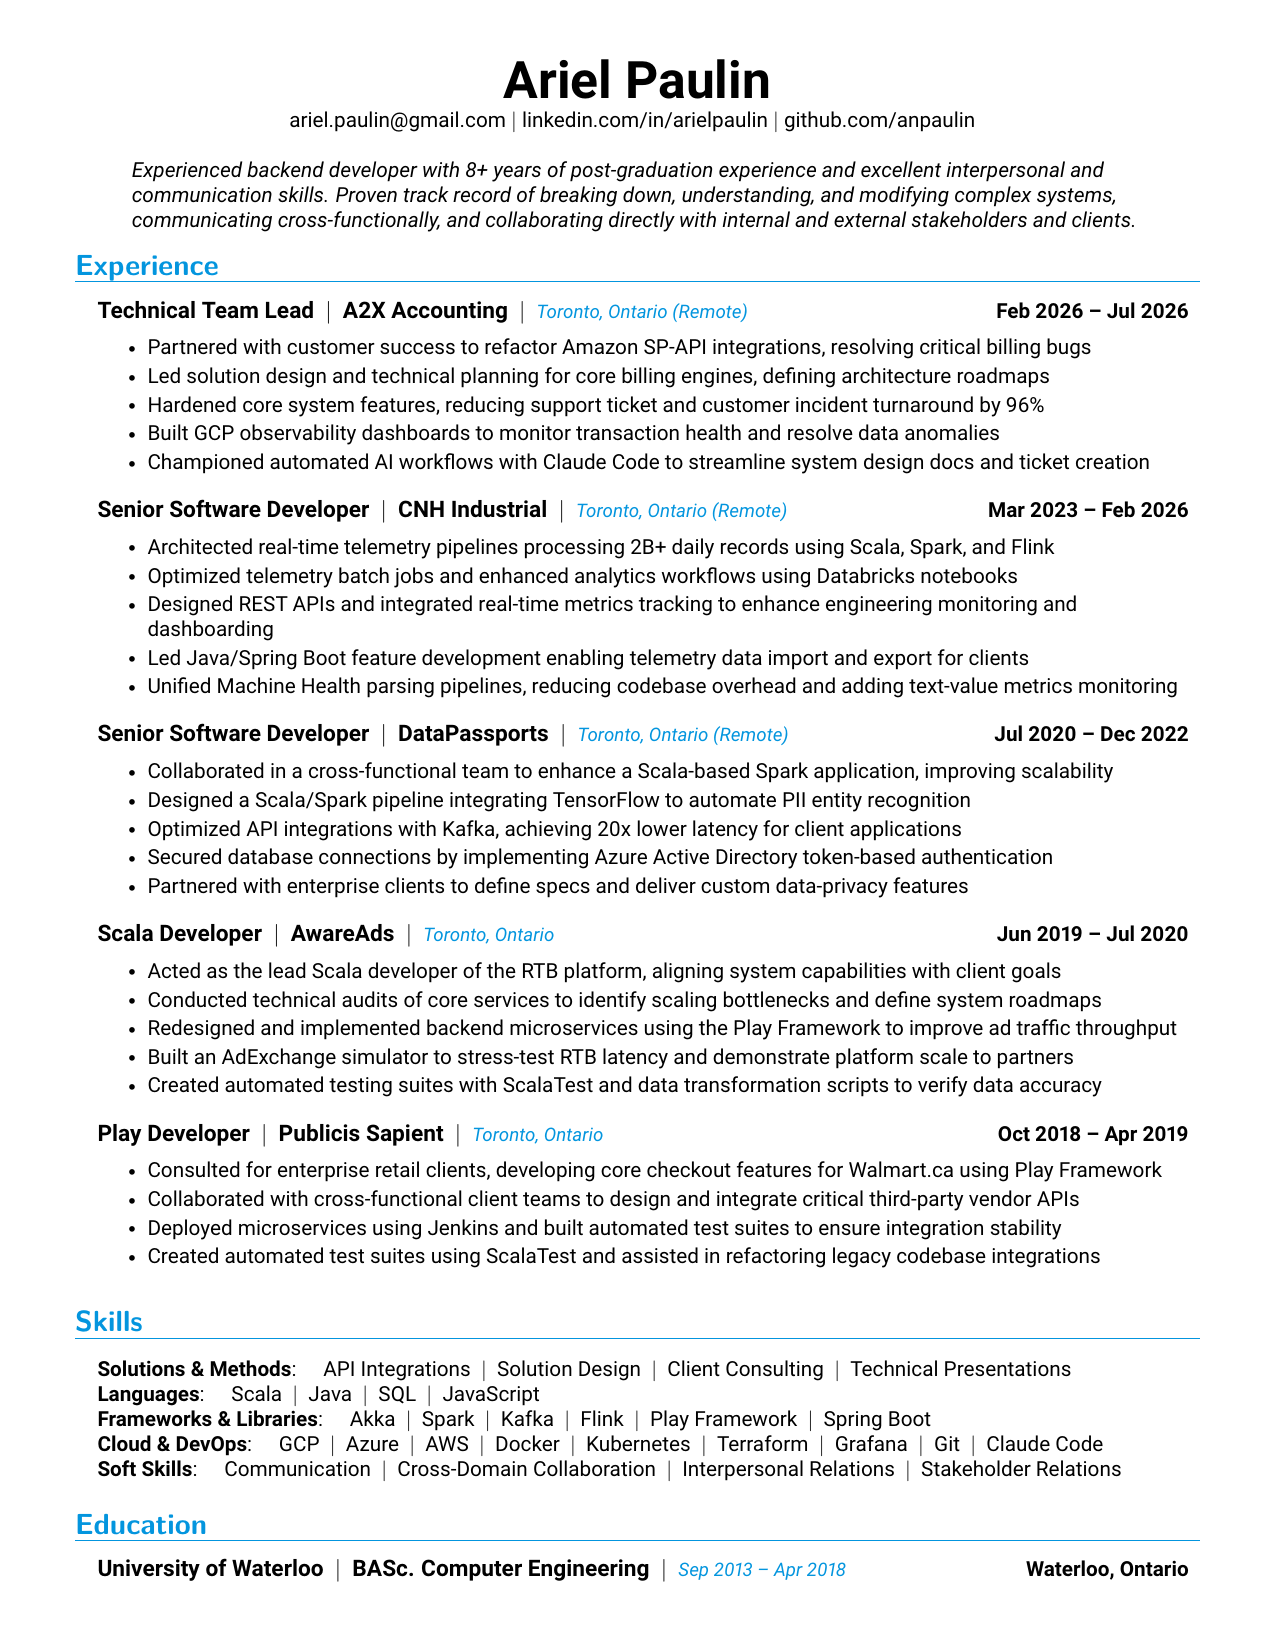
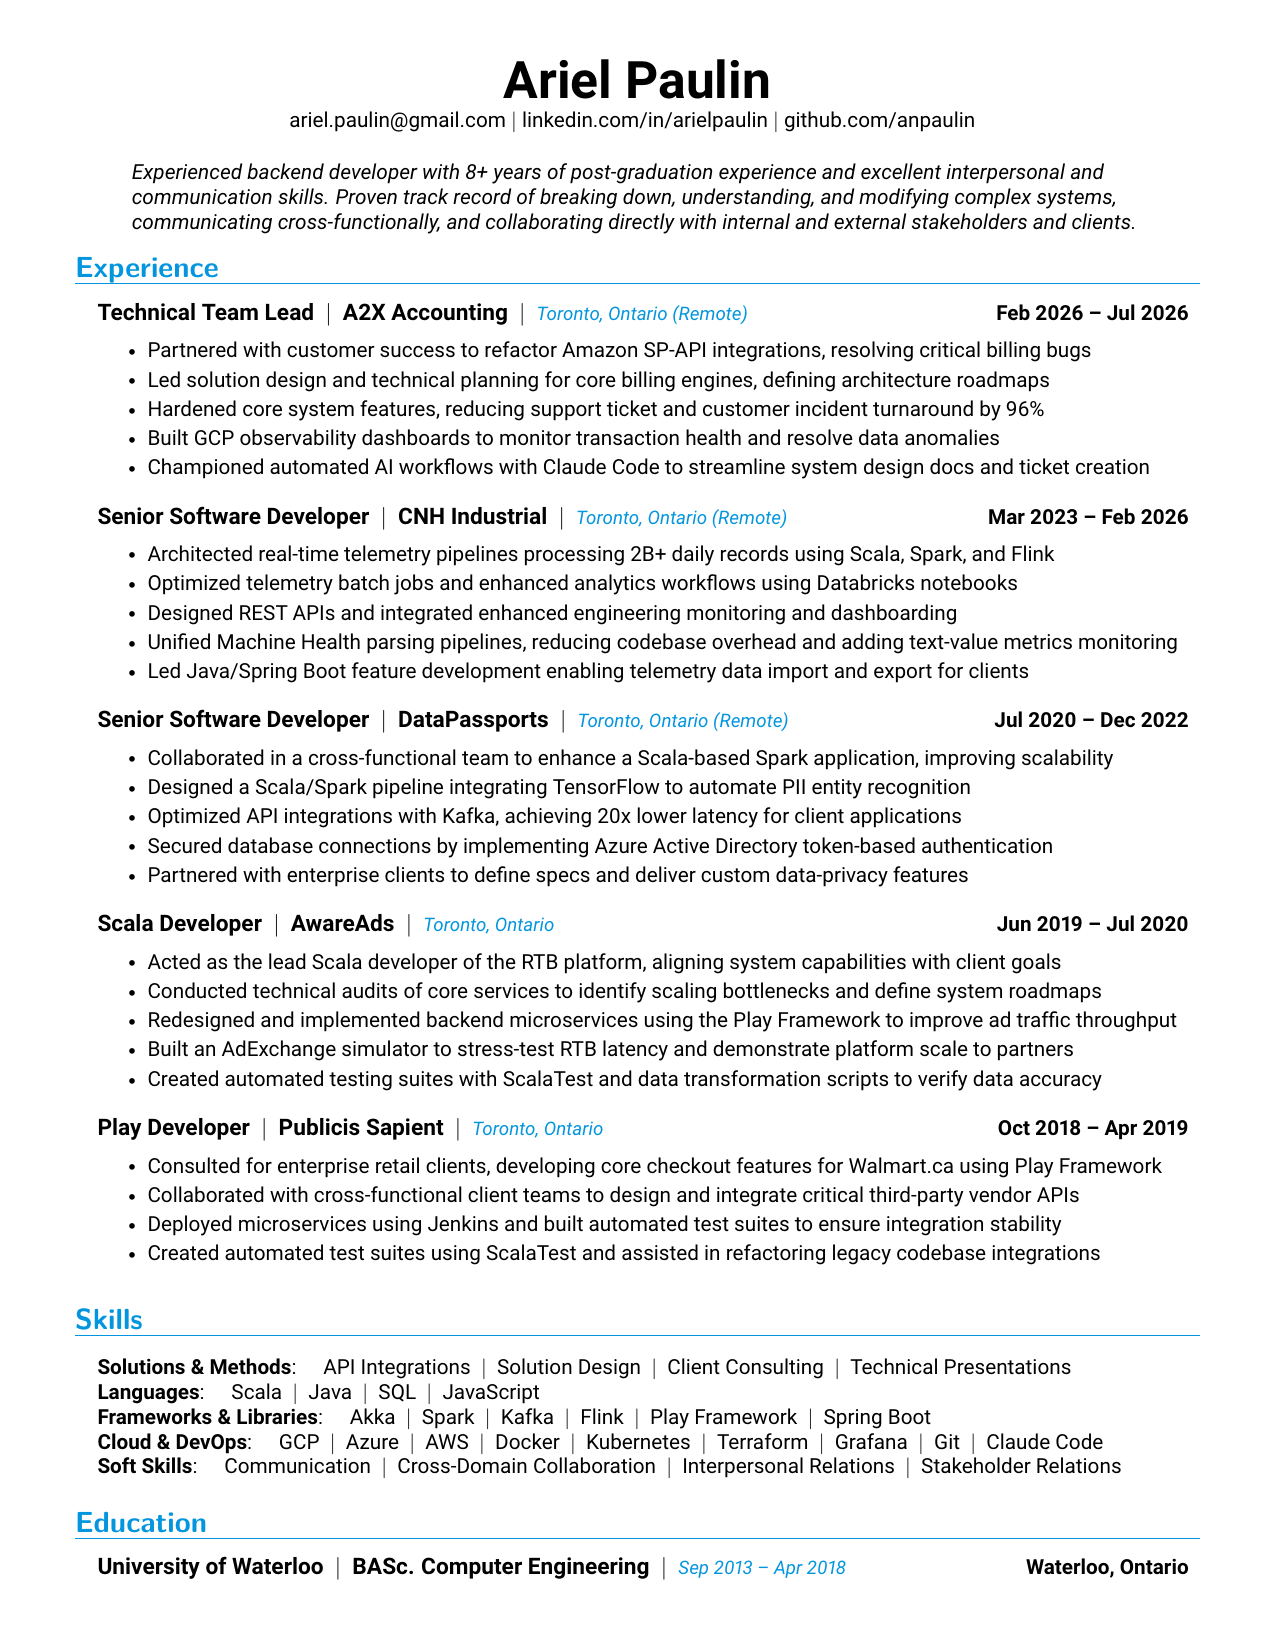
CNH: simplify REST APIs bullet, move Machine Health pipeline bullet below it

diff --git a/experience/cnh.tex b/experience/cnh.tex
@@ -4,7 +4,7 @@
   \resumeItemListStart
     \resumeItem{Architected robust, real-time telemetry pipelines processing 2B+ daily records using Scala, Spark, and Flink}
     \resumeItem{Optimized batch jobs and enhanced analytics workflows using Databricks notebooks}
-    \resumeItem{Designed production REST APIs and integrated real-time metrics tracking to enhance engineering monitoring and dashboarding}
-    \resumeItem{Spearheaded Java/Spring Boot feature development enabling data import and export for users}
+    \resumeItem{Designed REST APIs and integrated enhanced engineering monitoring and dashboarding}
     \resumeItem{Unified the Machine Health parsing pipelines, reducing code duplication and adding text-value metrics support}
+    \resumeItem{Spearheaded Java/Spring Boot feature development enabling data import and export for users}
   \resumeItemListEnd

diff --git a/se/experience/cnh.tex b/se/experience/cnh.tex
@@ -4,7 +4,7 @@
   \resumeItemListStart
     \resumeItem{Architected real-time telemetry pipelines processing 2B+ daily records using Scala, Spark, and Flink}
     \resumeItem{Optimized telemetry batch jobs and enhanced analytics workflows using Databricks notebooks}
-    \resumeItem{Designed REST APIs and integrated real-time metrics tracking to enhance engineering monitoring and dashboarding}
-    \resumeItem{Led Java/Spring Boot feature development enabling telemetry data import and export for clients}
+    \resumeItem{Designed REST APIs and integrated enhanced engineering monitoring and dashboarding}
     \resumeItem{Unified Machine Health parsing pipelines, reducing codebase overhead and adding text-value metrics monitoring}
+    \resumeItem{Led Java/Spring Boot feature development enabling telemetry data import and export for clients}
   \resumeItemListEnd
